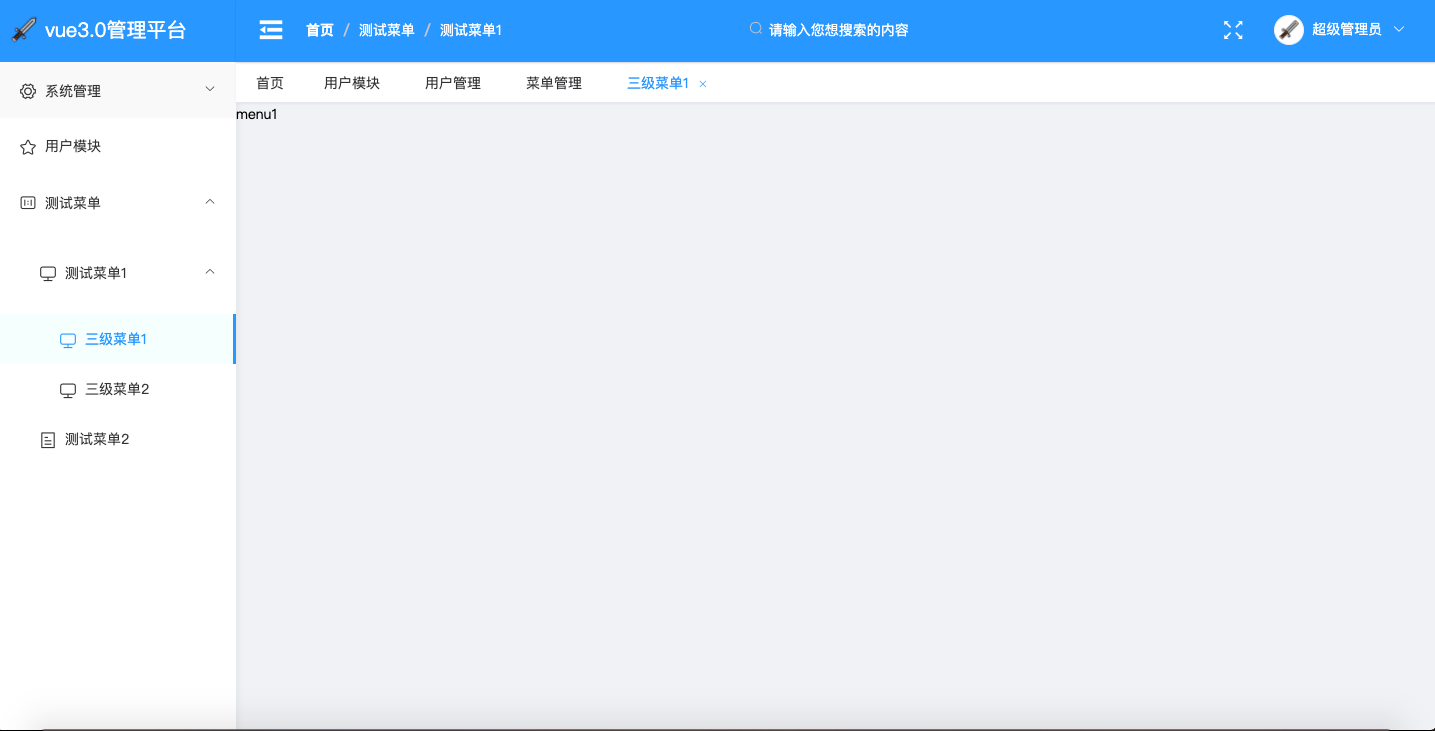
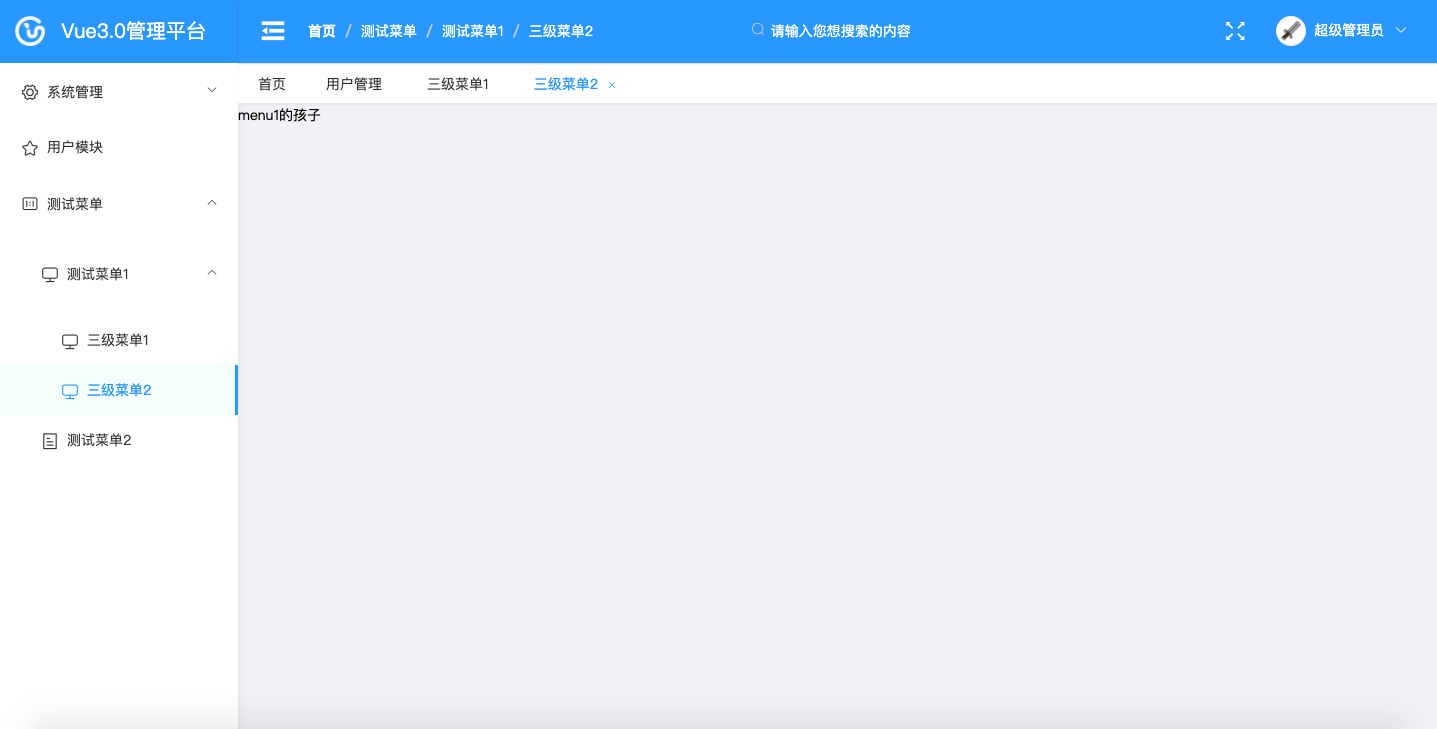
修改图标

diff --git a/src/page/menu/logo.vue b/src/page/menu/logo.vue
@@ -10,7 +10,7 @@ export default defineComponent({
   props: {
     title: {
       type: String,
-      default: "vue3.0管理平台",
+      default: "Vue3.0管理平台",
     },
   },
   setup() {
@@ -25,12 +25,12 @@ export default defineComponent({
 <style lang="scss" scoped>
 @import "/@/styles/common.scss";
 .ciel-logo {
-  @include bgCss(6%, 30px);
+  @include bgCss(8%, 30px);
   width: 240px;
   height: 64px;
   line-height: 64px;
-  padding-left: 8%;
-  background-image: url(/@/assets/logo.svg);
+  padding-left: 14%;
+  background-image: url(/@/assets/logo_white.png);
   font-size: 20px;
   color: white;
   box-sizing: border-box;

diff --git a/src/views/login.vue b/src/views/login.vue
@@ -4,7 +4,7 @@
       <div
         class="login-title flexlayout flexlayout_middle flexlayout_horizontal"
       >
-        <img class="login-title-icon" src="/@/assets/logo.svg" />
+        <img class="login-title-icon" src="/@/assets/logo_blue.png" />
         <p>vue3.0管理平台</p>
       </div>
       <div class="login-desc">
@@ -137,6 +137,7 @@ export default defineComponent({
       font-family: Avenir, Helvetica Neue, Arial, Helvetica, sans-serif;
       .login-title-icon {
         width: 46px;
+        margin-right: 10px;
       }
     }
     .login-desc {

diff --git a/index.html b/index.html
@@ -2,7 +2,7 @@
 <html lang="en">
   <head>
     <meta charset="UTF-8" />
-    <link rel="icon" href="/logo.svg" />
+    <link rel="icon" href="./src/assets/logo_blue.png" />
     <meta name="viewport" content="width=device-width, initial-scale=1.0" />
     <title>平台管理</title>
   </head>

diff --git a/README.md b/README.md
@@ -34,19 +34,11 @@ yarn build
 
 ### 效果展示
 **通过登录超级管理员进入**
-<p align="center">
-    <img width="900" src="http://47.101.59.21:8080/admin-plat/picture/login.png">
-</p>
+<img width="900" src="http://47.101.59.21:8080/admin-plat/picture/login.png">
 
 **登录后可分配用户权限和创建账号，此功能与node后台做交互**
-<p align="center">
-    <img width="900" src="http://47.101.59.21:8080/admin-plat/picture/page_user.png">
-</p>
+<img width="900" src="http://47.101.59.21:8080/admin-plat/picture/page_user.png">
 
 **不同权限可看到不同的菜单**
-<p align="center">
-    <img width="900" src="http://47.101.59.21:8080/admin-plat/picture/page1.png">
-</p>
-<p align="center">
-    <img width="900" src="http://47.101.59.21:8080/admin-plat/picture/page2.png">
-</p>
+ <img width="900" src="http://47.101.59.21:8080/admin-plat/picture/page1.png">
+<img width="900" src="http://47.101.59.21:8080/admin-plat/picture/page2.png">
